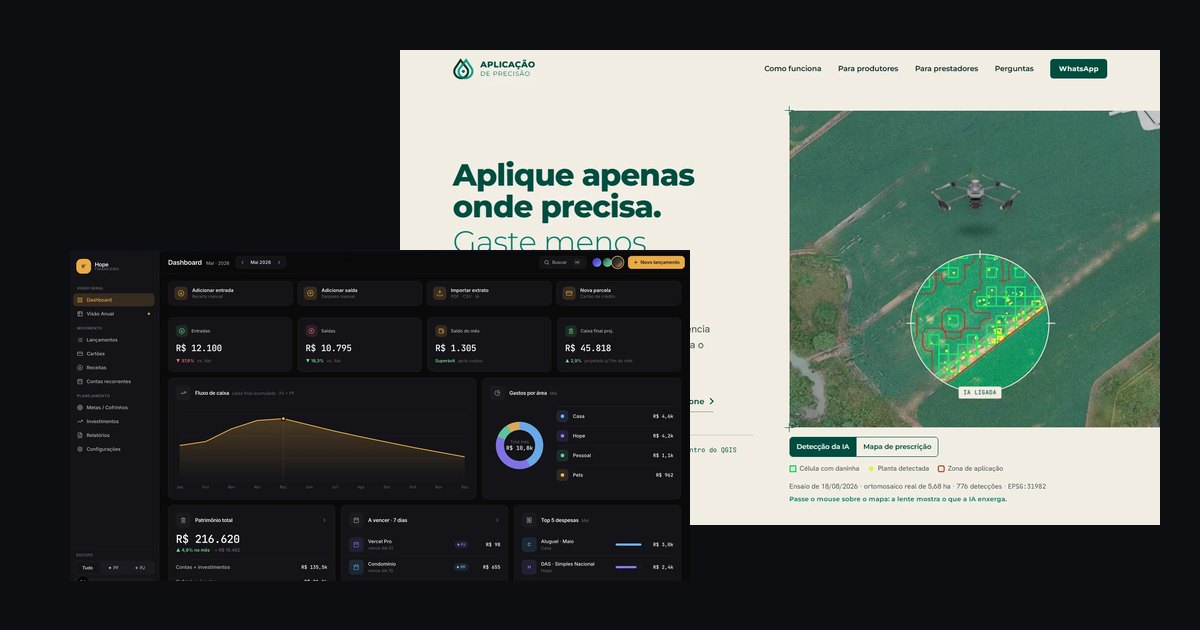
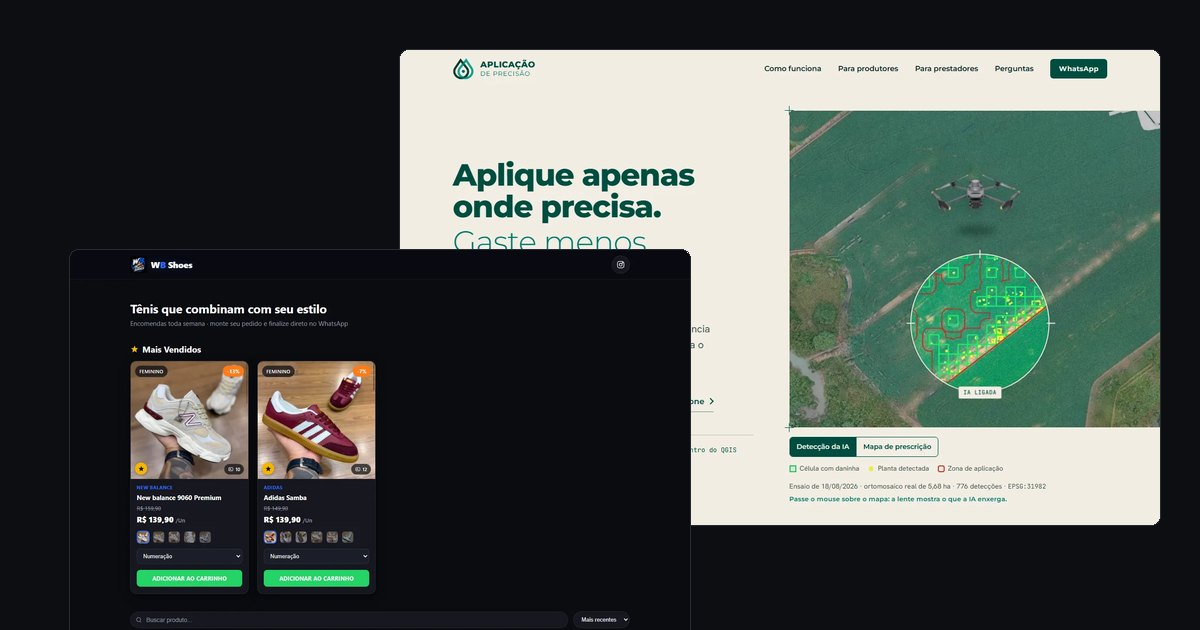
ajuste

diff --git a/index.html b/index.html
@@ -65,8 +65,8 @@
           <img src="assets/img/qgis-landing.webp" width="1440" height="900" alt="Landing page do plugin Aplicação de Precisão, com imagem de drone sobre uma lavoura de soja e a detecção de plantas daninhas por IA." fetchpriority="high">
         </figure>
         <figure class="frame b">
-          <div class="frame-bar">Hope Financeiro</div>
-          <img src="assets/img/hope-dashboard.webp" width="1600" height="855" alt="Dashboard do Hope Financeiro com entradas, saídas, fluxo de caixa e gastos por área." fetchpriority="high">
+          <div class="frame-bar">WB Shoes</div>
+          <img src="assets/img/wbshoes.webp" width="1440" height="900" alt="Site WB Shoes com os tênis mais vendidos, preços e botão de adicionar ao carrinho." fetchpriority="high">
         </figure>
       </div>
     </div>
@@ -146,34 +146,6 @@
         </div>
       </article>
 
-      <article class="case case-b">
-        <div class="case-text reveal">
-          <h3>Hope Financeiro</h3>
-          <p>Gestão financeira pessoal e empresarial no mesmo lugar: dashboard, cartões, contas recorrentes, metas e investimentos. Importa extratos em PDF e CSV com IA.</p>
-          <ul class="case-list">
-            <li>Escopo separado para pessoa física e jurídica</li>
-            <li>Visão anual do fluxo de caixa por categoria e meta</li>
-          </ul>
-          <div class="chips">
-            <span class="chip"><svg class="ic" aria-hidden="true"><use href="#si-nextdotjs"/></svg>Next.js 16</span>
-            <span class="chip"><svg class="ic" aria-hidden="true"><use href="#si-react"/></svg>React 19</span>
-            <span class="chip"><svg class="ic" aria-hidden="true"><use href="#si-typescript"/></svg>TypeScript</span>
-            <span class="chip"><svg class="ic" aria-hidden="true"><use href="#si-sqlite"/></svg>SQLite</span>
-          </div>
-          <p class="case-note">Prints com dados de demonstração.</p>
-        </div>
-        <div class="stack-pair reveal" style="--i:1">
-          <figure class="frame back">
-            <div class="frame-bar">Visão anual</div>
-            <img src="assets/img/hope-anual.webp" width="1600" height="854" alt="Tela Visão Anual do Hope Financeiro, com o fluxo de caixa de 2026 por categoria e por mês." loading="lazy">
-          </figure>
-          <figure class="frame front">
-            <div class="frame-bar">Dashboard</div>
-            <img src="assets/img/hope-dashboard.webp" width="1600" height="855" alt="Dashboard do Hope Financeiro com entradas, saídas, saldo do mês e caixa final projetado." loading="lazy">
-          </figure>
-        </div>
-      </article>
-
       <div class="duo">
         <article class="duo-card reveal">
           <figure class="frame">
@@ -221,28 +193,18 @@
       <div class="bento">
         <article class="tile t-4 t-tint reveal">
           <div>
-            <h3>AtendeAI</h3>
-            <p>SaaS omnichannel com IA para clínicas de fisioterapia. Atendimento por WhatsApp, automações no n8n, GPT-4o e Claude, e um servidor MCP com 10 ferramentas.</p>
+            <h3>Sistema de Dosimetria de Risco de Lesões</h3>
+            <p>Plataforma para fisioterapeutas e preparadores físicos medirem o risco de lesão de cada atleta. Avaliação em cinco frentes (histórico, biomecânica, mobilidade, Y-Balance e desempenho), score em quatro níveis de risco, evolução entre avaliações e laudo em PDF com a marca da clínica e análise gerada por IA.</p>
           </div>
           <div class="chips">
-            <span class="chip"><svg class="ic" aria-hidden="true"><use href="#si-nextdotjs"/></svg>Next.js 15</span>
-            <span class="chip"><svg class="ic" aria-hidden="true"><use href="#si-fastify"/></svg>Fastify</span>
+            <span class="chip"><svg class="ic" aria-hidden="true"><use href="#si-react"/></svg>React</span>
+            <span class="chip"><svg class="ic" aria-hidden="true"><use href="#si-typescript"/></svg>TypeScript</span>
+            <span class="chip"><svg class="ic" aria-hidden="true"><use href="#si-supabase"/></svg>Supabase</span>
             <span class="chip"><svg class="ic" aria-hidden="true"><use href="#si-postgresql"/></svg>PostgreSQL</span>
-            <span class="chip"><svg class="ic" aria-hidden="true"><use href="#si-redis"/></svg>Redis</span>
+            <span class="chip"><svg class="ic" aria-hidden="true"><use href="#si-openai"/></svg>OpenAI</span>
           </div>
         </article>
         <article class="tile t-2 reveal" style="--i:1">
-          <div>
-            <h3>SoccerVision IA</h3>
-            <p>Análise tática de vídeo de futebol com visão computacional.</p>
-          </div>
-          <div class="chips">
-            <span class="chip"><svg class="ic" aria-hidden="true"><use href="#si-dotnet"/></svg>ASP.NET Core 8</span>
-            <span class="chip">Blazor</span>
-            <span class="chip"><svg class="ic" aria-hidden="true"><use href="#si-python"/></svg>FastAPI</span>
-          </div>
-        </article>
-        <article class="tile t-2 reveal">
           <div>
             <h3>LigaPro</h3>
             <p>SaaS para gerir campeonatos: times, jogadores e partidas ao vivo por WebSocket, com acesso por perfil.</p>
@@ -252,7 +214,7 @@
             <span class="chip"><svg class="ic" aria-hidden="true"><use href="#si-docker"/></svg>Docker</span>
           </div>
         </article>
-        <article class="tile t-2 t-dots reveal" style="--i:1">
+        <article class="tile t-2 t-dots reveal">
           <div>
             <h3>Gestão rural</h3>
             <p>Áreas, plantios, aplicações, estoque, maquinário e financeiro de fazendas.</p>
@@ -263,17 +225,7 @@
             <span class="chip"><svg class="ic" aria-hidden="true"><use href="#si-supabase"/></svg>Supabase</span>
           </div>
         </article>
-        <article class="tile t-2 reveal" style="--i:2">
-          <div>
-            <h3>Risco de lesão no futebol</h3>
-            <p>Avaliação de atletas com laudo em PDF e usuários organizados por entidade.</p>
-          </div>
-          <div class="chips">
-            <span class="chip"><svg class="ic" aria-hidden="true"><use href="#si-react"/></svg>React</span>
-            <span class="chip"><svg class="ic" aria-hidden="true"><use href="#si-supabase"/></svg>Supabase</span>
-          </div>
-        </article>
-        <article class="tile t-6 t-solid reveal">
+        <article class="tile t-4 t-solid reveal" style="--i:1">
           <div class="tile-copy">
             <h3>Automação com n8n</h3>
             <p>Fluxos de WhatsApp, painéis de mensagens e reabertura automática de chamados a partir de planilhas, ligados a APIs de atendimento.</p>

diff --git a/assets/css/style.css b/assets/css/style.css
@@ -211,7 +211,6 @@ h3 { font-size: clamp(1.4rem, 2.2vw, 1.75rem); line-height: 1.15; letter-spacing
 .case { display: grid; gap: 2rem; align-items: center; margin-bottom: clamp(3.5rem, 7vw, 6rem); }
 @media (min-width: 960px) {
   .case-a { grid-template-columns: 8fr 4fr; gap: 3.5rem; }
-  .case-b { grid-template-columns: 5fr 7fr; gap: 4rem; }
 }
 .case-text { display: flex; flex-direction: column; gap: 1rem; align-items: flex-start; }
 .case-text p { color: var(--muted); max-width: 48ch; }
@@ -219,14 +218,6 @@ h3 { font-size: clamp(1.4rem, 2.2vw, 1.75rem); line-height: 1.15; letter-spacing
 .case-list li { padding-left: 1.1rem; position: relative; }
 .case-list li::before { content: ""; position: absolute; left: 0; top: 0.72em; width: 0.4rem; height: 2px; background: var(--accent); }
 .case-note { font: 500 0.78rem/1.4 var(--mono); color: var(--muted); }
-.stack-pair { position: relative; }
-.stack-pair .frame.front { position: relative; }
-@media (min-width: 640px) {
-  .stack-pair { padding-bottom: 14%; }
-  .stack-pair .back { width: 88%; margin-left: auto; }
-  .stack-pair .front { position: absolute; left: 0; bottom: 0; width: 70%; }
-}
-@media (max-width: 639px) { .stack-pair { display: grid; gap: 1rem; } }
 
 .duo { display: grid; gap: 2rem; }
 @media (min-width: 860px) { .duo { grid-template-columns: 1fr 1fr; gap: 2.5rem; } }
